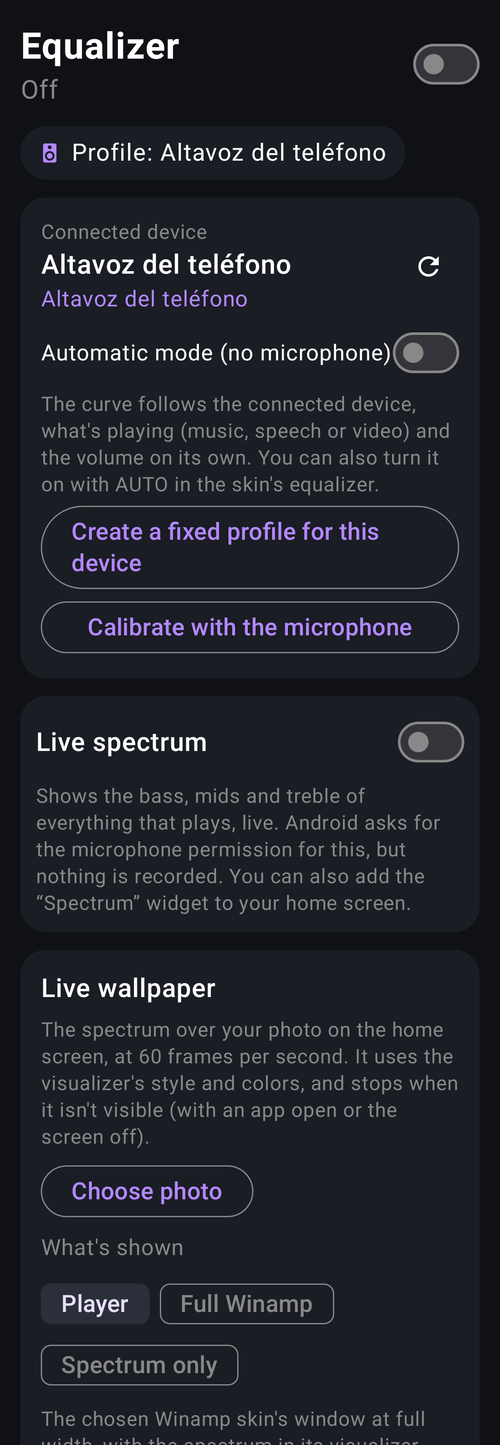
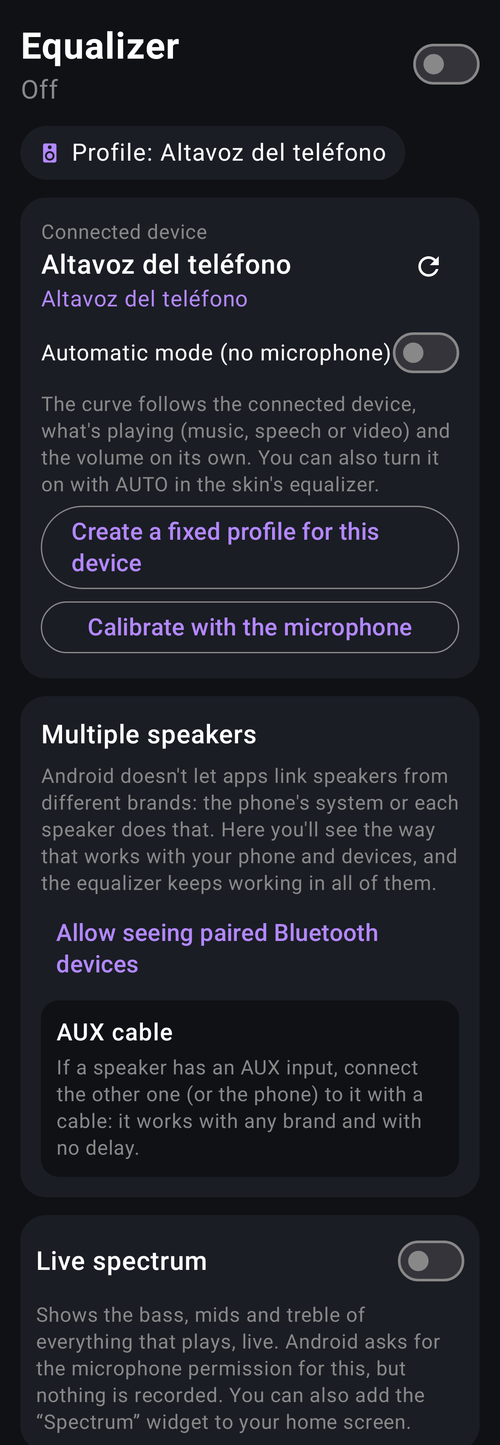
Portada: novedades de la 3.1 y 3.2, Varios parlantes e idiomas
- README y README.en: novedades por versión, sección «Varios parlantes» con captura de ejemplo,
  sección de idiomas y enlace a todas las versiones.
- MultiSpeakerPreviewTest: captura del asistente con parlantes de ejemplo (MultiSpeaker.demo, solo
  para pruebas), en inglés y español; pantallas principales actualizadas.

Claude-Session: https://claude.ai/code/session_01DeHSqnhbvxRwApSdeqjUhh

Changed region(s): [[0.06, 0.4983, 0.93, 1.0], [0.48, 0.8097, 0.51, 0.8408]]

diff --git a/app/src/test/java/cl/ecualizador/MultiSpeakerPreviewTest.kt b/app/src/test/java/cl/ecualizador/MultiSpeakerPreviewTest.kt
@@ -1,0 +1,48 @@
+package cl.ecualizador
+
+import android.graphics.Bitmap
+import android.graphics.Canvas
+import androidx.test.core.app.ActivityScenario
+import org.junit.Test
+import org.junit.runner.RunWith
+import org.robolectric.RobolectricTestRunner
+import org.robolectric.annotation.Config
+import org.robolectric.annotation.GraphicsMode
+import org.robolectric.shadows.ShadowLooper
+import java.io.File
+import java.util.concurrent.TimeUnit
+
+/**
+ * Con -DpreviewDir: la pantalla con el asistente «Varios parlantes» de ejemplo (dos JBL y un Sony, en
+ * un teléfono que transmite LE Audio), en inglés y en español, para la portada.
+ */
+@RunWith(RobolectricTestRunner::class)
+@GraphicsMode(GraphicsMode.Mode.NATIVE)
+class MultiSpeakerPreviewTest {
+    private fun capture(name: String) {
+        val out = File(System.getProperty("previewDir")?.takeIf { it.isNotEmpty() } ?: return)
+        val speakers = listOf("JBL Charge 5", "JBL Flip 6", "SRS-XB43")
+        MultiSpeaker.demo = speakers to MultiSpeaker.plan(speakers, broadcast = true, samsung = false)
+        try {
+            ActivityScenario.launch(MainActivity::class.java).use { scenario ->
+                repeat(20) { ShadowLooper.idleMainLooper(100, TimeUnit.MILLISECONDS) }
+                scenario.onActivity { a ->
+                    val root = a.window.decorView
+                    val bmp = Bitmap.createBitmap(root.width, root.height, Bitmap.Config.ARGB_8888)
+                    root.draw(Canvas(bmp))
+                    File(out, name).outputStream().use { bmp.compress(Bitmap.CompressFormat.PNG, 100, it) }
+                }
+            }
+        } finally {
+            MultiSpeaker.demo = null
+        }
+    }
+
+    @Test
+    @Config(sdk = [34], qualifiers = "w392dp-h3600dp-xxhdpi")
+    fun english() = capture("varios_parlantes_en.png")
+
+    @Test
+    @Config(sdk = [34], qualifiers = "es-w392dp-h3600dp-xxhdpi")
+    fun spanish() = capture("varios_parlantes_es.png")
+}

diff --git a/app/src/main/java/cl/ecualizador/MainActivity.kt b/app/src/main/java/cl/ecualizador/MainActivity.kt
@@ -1302,9 +1302,10 @@ private fun MultiSpeakerCard() {
     val ctx = LocalContext.current
     // Se revisa al volver a la app (el permiso o los equipos vinculados pueden cambiar)
     val lifecycle by LocalLifecycleOwner.current.lifecycle.currentStateFlow.collectAsState()
-    var permission by remember { mutableStateOf(MultiSpeaker.hasPermission(ctx)) }
-    val speakers = remember(lifecycle, permission) { MultiSpeaker.pairedSpeakers(ctx) }
-    val options = remember(speakers) { MultiSpeaker.plan(speakers, MultiSpeaker.canBroadcast(ctx), MultiSpeaker.isSamsung()) }
+    val demo = MultiSpeaker.demo
+    var permission by remember { mutableStateOf(demo != null || MultiSpeaker.hasPermission(ctx)) }
+    val speakers = remember(lifecycle, permission) { demo?.first ?: MultiSpeaker.pairedSpeakers(ctx) }
+    val options = remember(speakers) { demo?.second ?: MultiSpeaker.plan(speakers, MultiSpeaker.canBroadcast(ctx), MultiSpeaker.isSamsung()) }
     val ask = rememberLauncherForActivityResult(ActivityResultContracts.RequestPermission()) { permission = MultiSpeaker.hasPermission(ctx) }
     fun open(intent: android.content.Intent) = runCatching { ctx.startActivity(intent) }
     fun bluetoothSettings() = open(android.content.Intent(android.provider.Settings.ACTION_BLUETOOTH_SETTINGS))

diff --git a/app/src/main/java/cl/ecualizador/MultiSpeaker.kt b/app/src/main/java/cl/ecualizador/MultiSpeaker.kt
@@ -30,6 +30,11 @@ object MultiSpeaker {
         Brand("Tribit", "Party Mode", "Tribit", r("""tribit|stormbox|xsound""")),
     )
 
+    /** Solo para las capturas de la portada: parlantes y opciones de ejemplo en vez de los reales. */
+    @androidx.annotation.VisibleForTesting
+    @Volatile
+    var demo: Pair<List<String>, List<Option>>? = null
+
     fun brandOf(name: String): Brand? = BRANDS.firstOrNull { it.pattern.containsMatchIn(name) }
 
     /** Lo que se puede hacer, en el orden en que conviene. */

diff --git a/README.en.md b/README.en.md
@@ -21,6 +21,7 @@
 
 <p align="center">
   <a href="https://github.com/CarmelitaSoftworks/C-EQ/raw/main/dist/C-EQ.apk"><b>⬇ Download APK (3.2)</b></a>
+  &nbsp;·&nbsp; <a href="https://github.com/CarmelitaSoftworks/C-EQ/releases">All versions</a>
   &nbsp;·&nbsp; <a href="CHANGELOG.md">Changelog</a>
   &nbsp;·&nbsp; <a href="CREDITS.md">Credits</a>
   &nbsp;·&nbsp; <a href="https://ko-fi.com/carmelitasoftworks">Support ☕</a>
@@ -35,8 +36,15 @@
 
 ---
 
-## ✨ New in 3.0
+## ✨ What's new
 
+**3.2 — Multiple speakers.** An assistant looks at your paired speakers and your phone and takes you
+to the way of using two or more that actually works: the brand's party mode, Audio sharing
+(Auracast), Dual audio on Samsung or an AUX cable.
+
+**3.1 — English and Spanish.** The menu follows your phone's language.
+
+**3.0 — Full Winamp.**
 - **Full Winamp on your wallpaper**: the skin stacked downwards with the player, the equalizer and
   the playlist. The bands, ON and AUTO respond to touch; the playlist shows the queue of what's
   playing in the skin's own font, and tapping a song jumps to it.
@@ -44,7 +52,6 @@
   volume on its own.
 - **Bluetooth LE Audio** headphones and speakers and **HDMI** TVs are recognized.
 - Shuffle shown as on in every skin; credits and Ko-fi inside the app.
-- The menu follows your phone's language (English or Spanish), and the **Multiple speakers** assistant shows the way to use two or more speakers that works on your phone.
 
 <p align="center">
   <img src="docs/winamp-completo.png" alt="Full Winamp with three skins: the original, Major Tom and a Sony one" width="90%">
@@ -93,6 +100,23 @@ Your photo at full resolution with the spectrum at 60 frames per second, in thre
   <img src="docs/fondo-animado.png" alt="Live wallpaper" width="90%">
 </p>
 
+### Multiple speakers
+Android doesn't let an app link speakers from different brands: the phone's system or each speaker
+does that. The assistant looks at your paired speakers and your phone and shows you what works, with
+a button to the brand's app or to Bluetooth settings:
+
+- **The brand's party mode** if you have two or more of the same one: Sony Party Connect, JBL
+  PartyBoost, UE PartyUp, Soundcore PartyCast, Marshall Stack Mode, Bose and Tribit.
+- **Audio sharing (Auracast)** if your phone broadcasts LE Audio: it works across compatible brands.
+- **Dual audio** on Samsung phones, with any brand.
+- **AUX cable**, which always works.
+
+The equalizer keeps working in all of them.
+
+<p align="center">
+  <img src="docs/varios-parlantes-en.png" alt="Multiple speakers assistant with two JBL and a Sony" width="50%">
+</p>
+
 ### Player in the notification shade
 Like Spotify's, but with the window of the chosen skin and its buttons.
 
@@ -102,6 +126,10 @@ Like Spotify's, but with the window of the chosen skin and its buttons.
 
 It also comes with a spectrum **widget** and a **Quick Settings tile** to turn the equalizer on
 without opening the app.
+
+### Languages
+The menu follows your phone's language: **English** or **Spanish**. On Android 13+ you can also pick
+it in Settings › App languages.
 
 ## 📲 Install
 

diff --git a/README.md b/README.md
@@ -21,6 +21,7 @@
 
 <p align="center">
   <a href="https://github.com/CarmelitaSoftworks/C-EQ/raw/main/dist/C-EQ.apk"><b>⬇ Descargar APK (3.2)</b></a>
+  &nbsp;·&nbsp; <a href="https://github.com/CarmelitaSoftworks/C-EQ/releases">Todas las versiones</a>
   &nbsp;·&nbsp; <a href="CHANGELOG.md">Novedades</a>
   &nbsp;·&nbsp; <a href="CREDITS.md">Créditos</a>
   &nbsp;·&nbsp; <a href="https://ko-fi.com/carmelitasoftworks">Apoyar ☕</a>
@@ -32,8 +33,15 @@
 
 ---
 
-## ✨ Novedades de la 3.0
+## ✨ Novedades
 
+**3.2 — Varios parlantes.** Un asistente revisa tus parlantes vinculados y tu teléfono y te lleva a
+la forma de usar dos o más que sí funciona: el modo fiesta de la marca, Compartir audio (Auracast),
+Audio dual en Samsung o un cable AUX.
+
+**3.1 — Inglés y español.** El menú sigue el idioma del teléfono.
+
+**3.0 — Winamp completo.**
 - **Winamp completo en el fondo de pantalla**: el skin hacia abajo con el reproductor, el
   ecualizador y la lista de reproducción. Las bandas, ON y AUTO se tocan; la lista muestra la cola
   de lo que suena con la letra del propio skin, y tocar una canción salta a ella.
@@ -41,7 +49,6 @@
   volumen.
 - Audífonos y parlantes **Bluetooth LE Audio** y TV por **HDMI** reconocidos.
 - Aleatorio encendido en todos los skins, créditos y Ko-fi dentro de la app.
-- El menú sigue el idioma del teléfono (inglés o español) y el asistente **Varios parlantes** te lleva a la forma de usar dos o más parlantes que funciona en tu teléfono.
 
 <p align="center">
   <img src="docs/winamp-completo.png" alt="Winamp completo con tres skins: el original, Major Tom y uno de Sony" width="90%">
@@ -91,6 +98,23 @@ pantalla de inicio.
   <img src="docs/fondo-animado.png" alt="Fondo animado" width="90%">
 </p>
 
+### Varios parlantes
+Android no deja que una app una parlantes de distintas marcas: eso lo hacen el sistema del teléfono
+o cada parlante. El asistente revisa tus parlantes vinculados y tu teléfono y te muestra lo que
+funciona, con un botón a la app de la marca o a los ajustes de Bluetooth:
+
+- **Modo fiesta de la marca** si tienes dos o más de la misma: Sony Party Connect, JBL PartyBoost,
+  UE PartyUp, Soundcore PartyCast, Marshall Stack Mode, Bose y Tribit.
+- **Compartir audio (Auracast)** si tu teléfono transmite LE Audio: funciona entre marcas compatibles.
+- **Audio dual** en teléfonos Samsung, con cualquier marca.
+- **Cable AUX**, que siempre funciona.
+
+El ecualizador sigue sonando en todas.
+
+<p align="center">
+  <img src="docs/varios-parlantes.png" alt="Asistente Varios parlantes con dos JBL y un Sony" width="50%">
+</p>
+
 ### Reproductor en la barra de notificaciones
 Como el de Spotify, pero con la ventana del skin elegido y sus botones.
 
@@ -100,6 +124,10 @@ Como el de Spotify, pero con la ventana del skin elegido y sus botones.
 
 También trae **widget** con el espectro y **mosaico de Ajustes rápidos** para encender el
 ecualizador sin abrir la app.
+
+### Idiomas
+El menú sigue el idioma del teléfono: **español** o **inglés**. En Android 13 o superior también se
+elige en Ajustes › Idioma de las apps.
 
 ## 📲 Instalar
 
